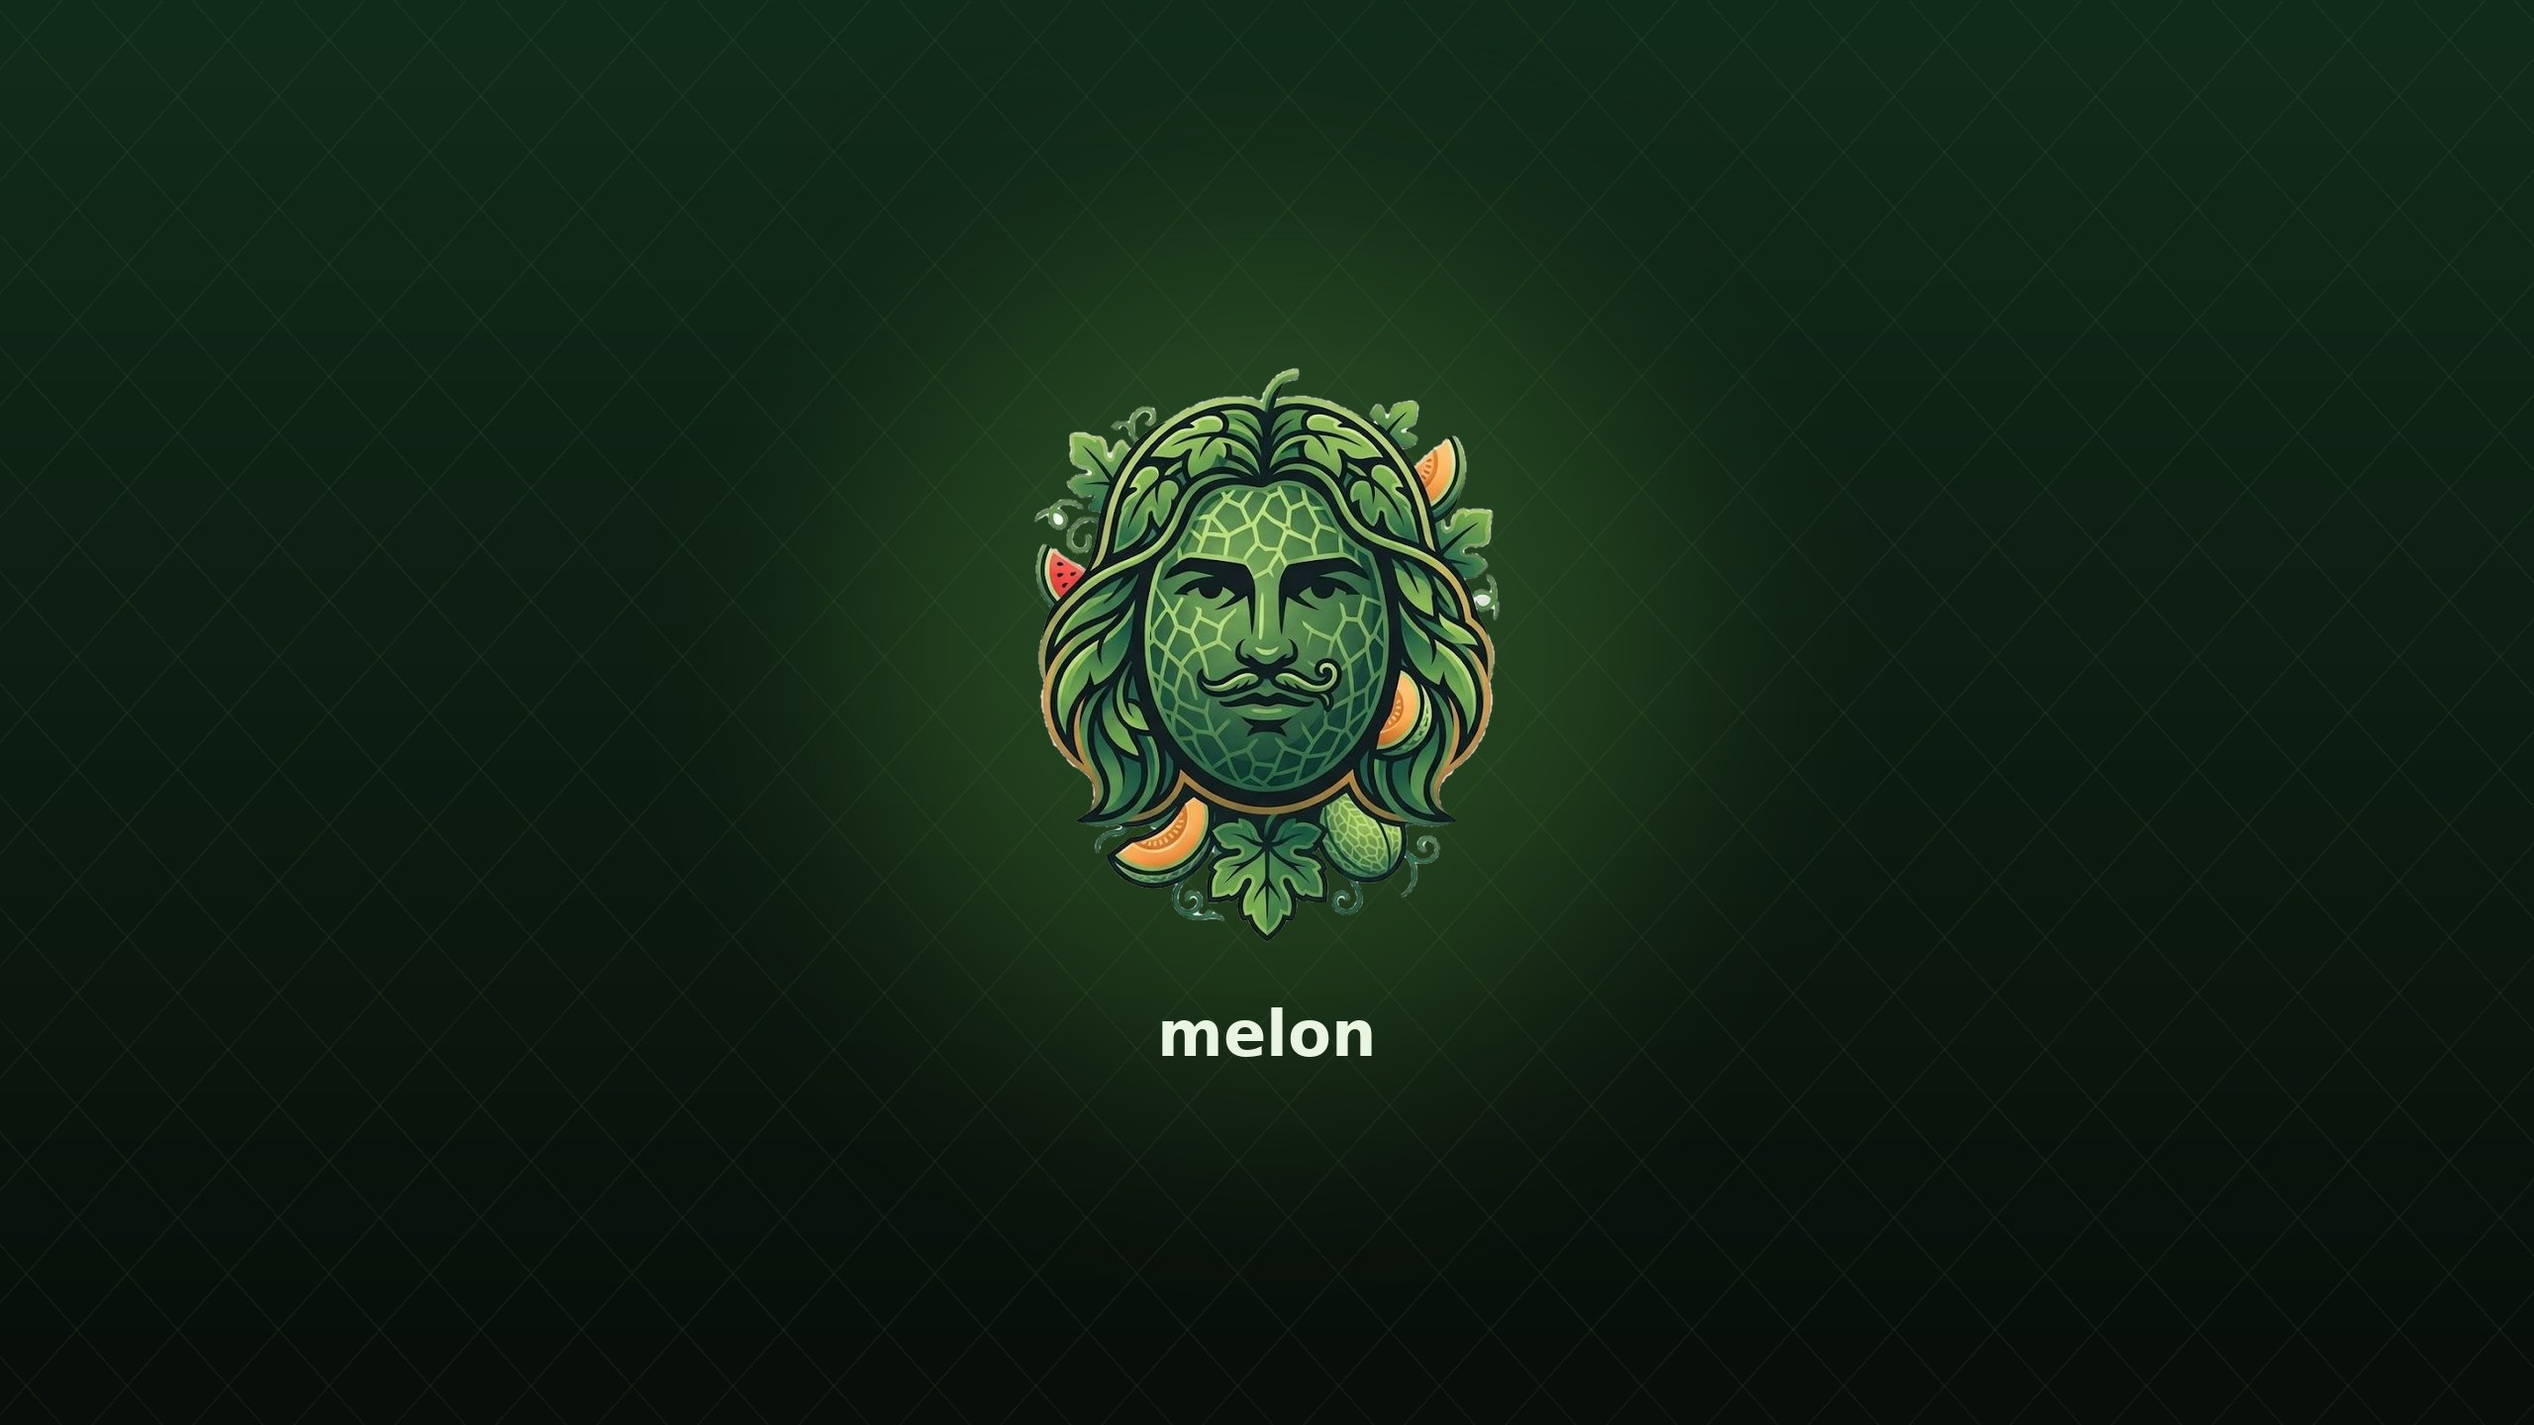
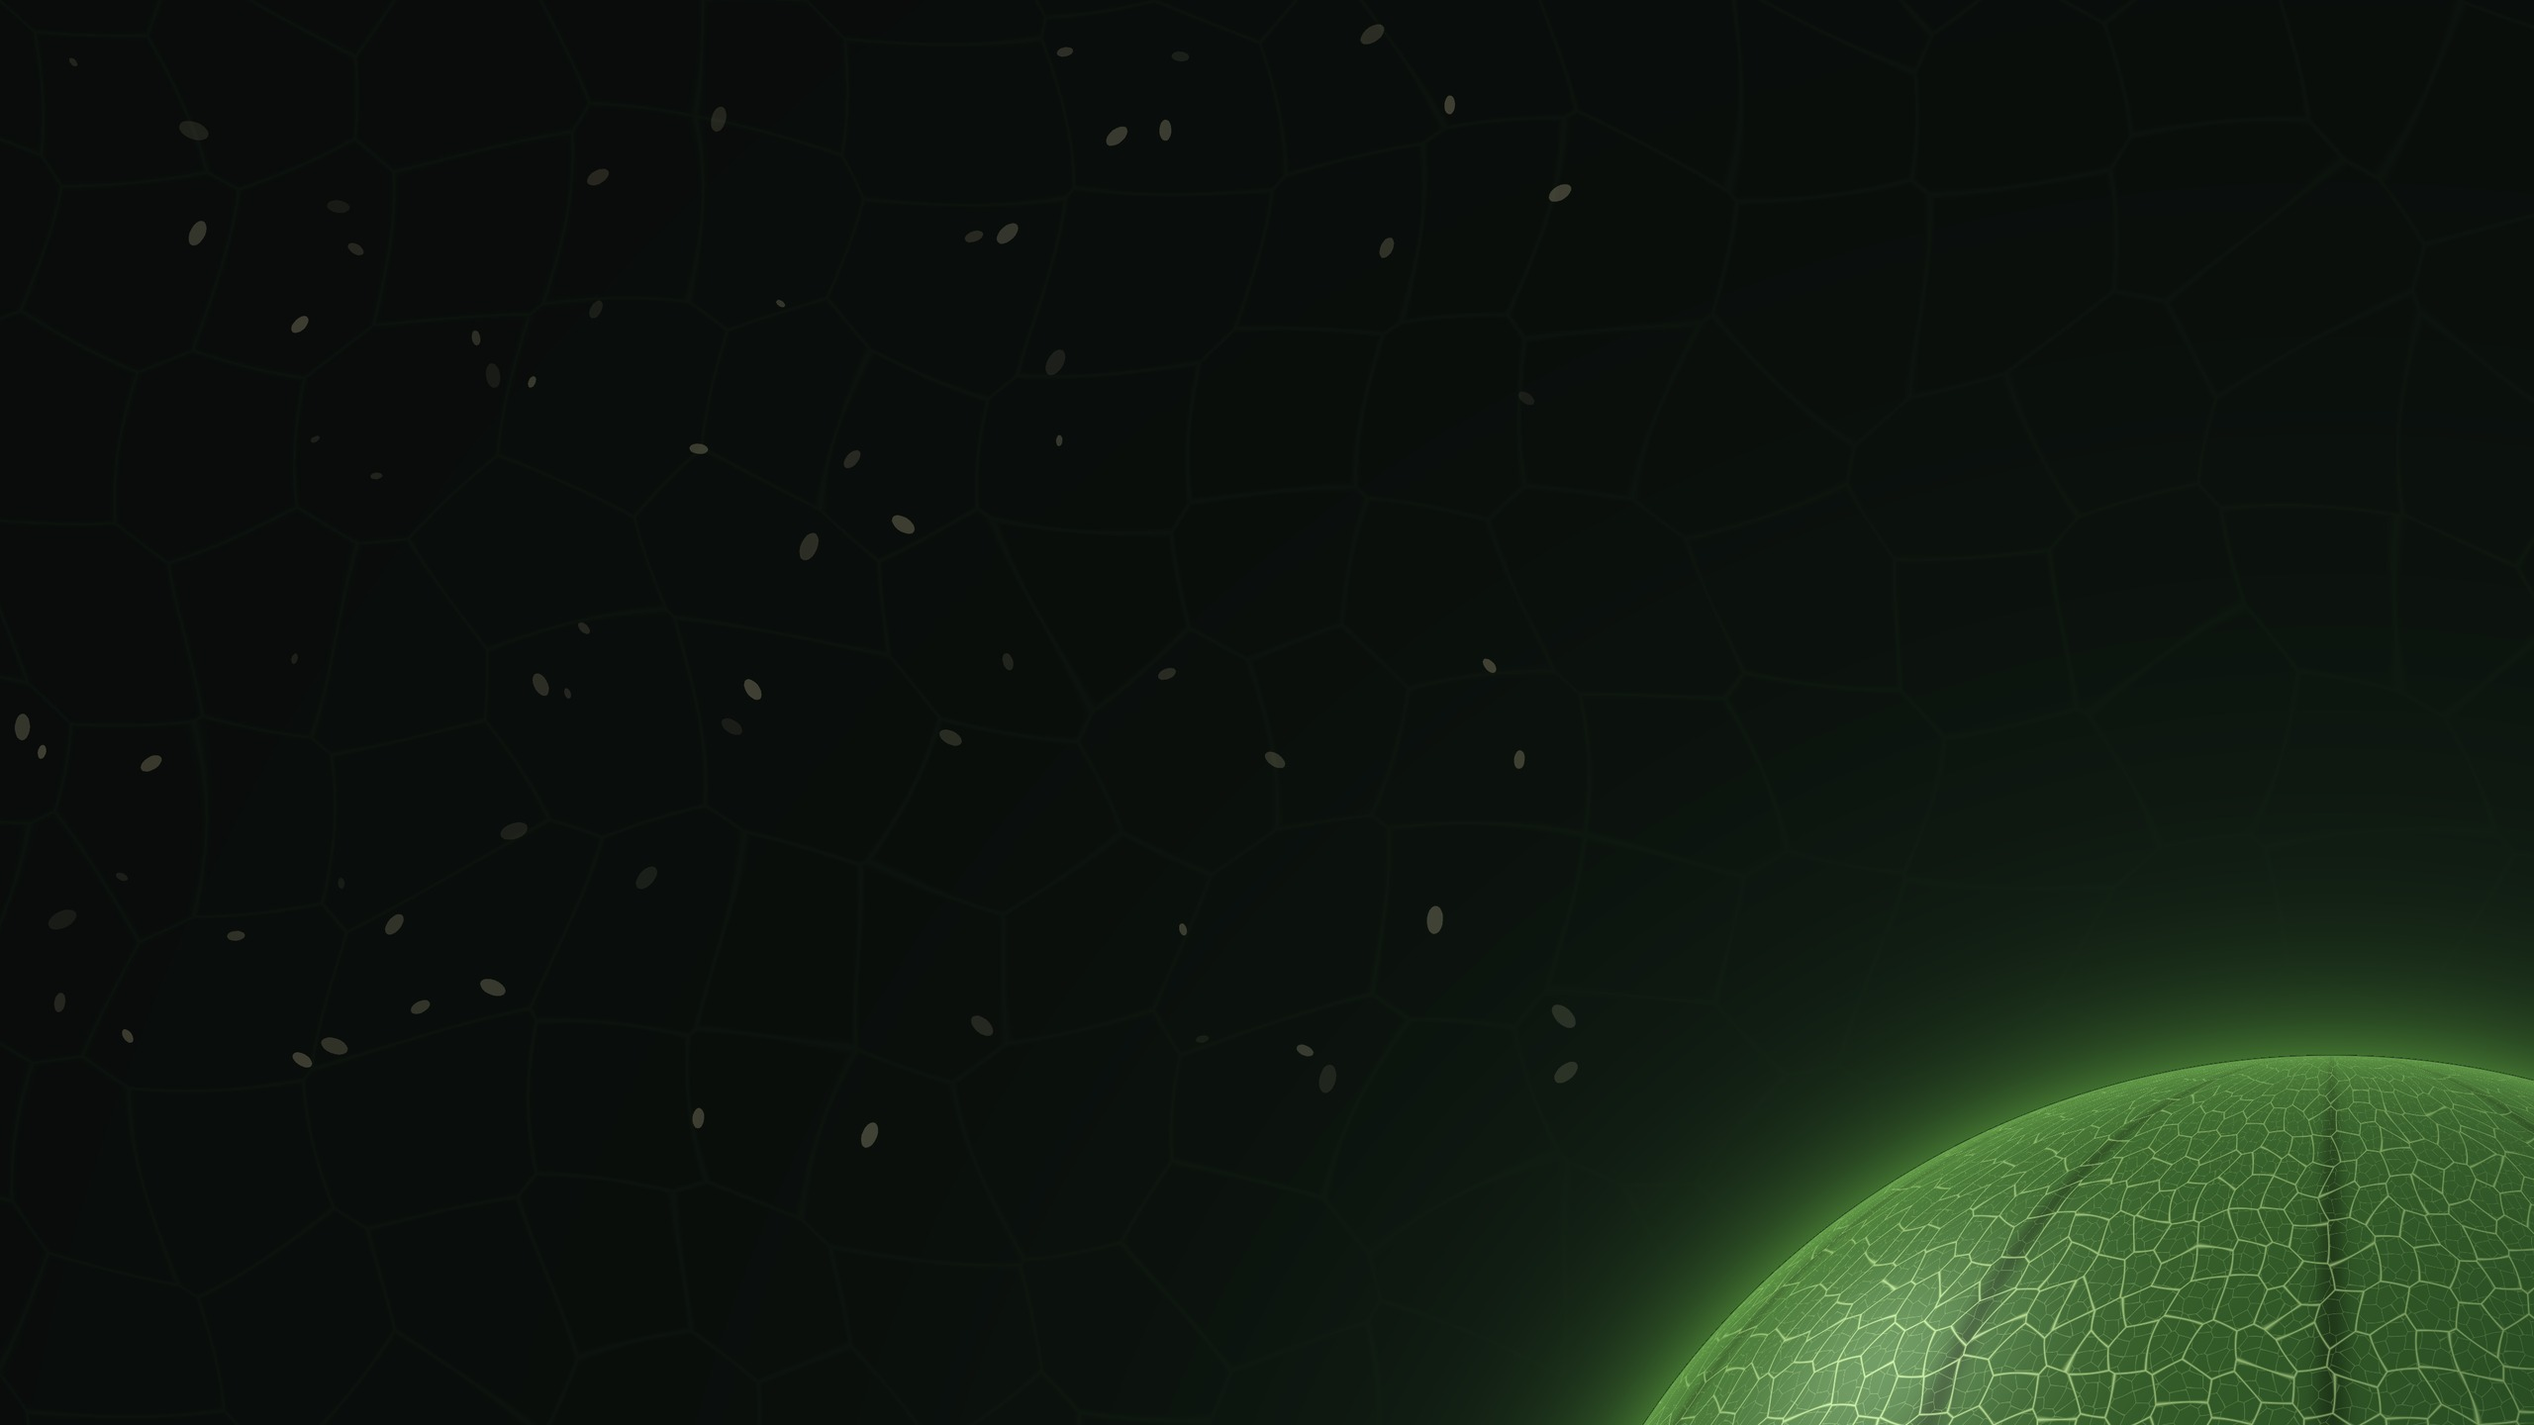
Wi-Fi on real hardware, polkitd restart loop, new wallpaper and loading screen
- eudev (r1): the udevd service replays net/ieee80211/rfkill/bluetooth "add" events once it
  runs. Stage 1's udevd is stopped before the service starts, and a Wi-Fi card's interface
  only appears after its firmware loads: on the ProBook 445 G8 the MT7921's wlan0 arrived in
  that gap, udev never processed it (it kept the kernel name) and NetworkManager left it
  "unmanaged", so Plasma showed no Wi-Fi. Driver and firmware were fine.
- polkit (r1): only runit starts polkitd (D-Bus activation runs /bin/false) and a check
  script says when it owns its bus name. On installed systems power-profiles-daemon asked for
  polkit first, D-Bus started a copy, and the supervised polkitd exited and restarted every
  second. power-profiles-daemon now waits for polkitd; elogind (r4) and polkitd no longer
  print their dbus check to the console.
- melon-desktop (r7): the default wallpaper is the melon planet from the GRUB background,
  without the old logo (the login and lock screens use it too), and a new loading screen:
  the same planet easing into place with a thin progress bar and no logo.
- qemu-test.py: the Wi-Fi test creates its radios while udevd is stopped (they come up
  unmanaged, like the real card) and needs the replay to connect; both desktop tests fail on
  services restarting in a loop; the installed test screenshots the loading screen.
- AGENTS.md: rules 34 (polkitd) and 44 (lost device events).

diff --git a/recipes/melon-desktop/files/usr/share/plasma/look-and-feel/org.melon.desktop/contents/splash/Splash.qml b/recipes/melon-desktop/files/usr/share/plasma/look-and-feel/org.melon.desktop/contents/splash/Splash.qml
@@ -1,45 +1,54 @@
 import QtQuick
 
+// melon's loading screen: the planet from the default wallpaper eases up into place while Plasma starts,
+// so the desktop takes over from the same picture; a thin progress bar follows KSplash's stages (1-6)
 Rectangle {
     id: root
-    color: "#101512"
+    color: "#0a0e0c"
     property int stage
 
-    onStageChanged: {
-        if (stage == 2) { introAnimation.running = true }
-        else if (stage == 5) { introAnimation.target = busyIndicator; introAnimation.from = 1; introAnimation.to = 0; introAnimation.running = true }
+    Image {
+        id: planet
+        anchors.fill: parent
+        source: "images/splash.jpg"
+        fillMode: Image.PreserveAspectCrop
+        opacity: 0
+        scale: 1.08
+        transformOrigin: Item.BottomRight
+        Component.onCompleted: rise.start()
+        ParallelAnimation {
+            id: rise
+            OpacityAnimator { target: planet; from: 0; to: 1; duration: 900; easing.type: Easing.OutQuad }
+            ScaleAnimator { target: planet; from: 1.08; to: 1.0; duration: 3200; easing.type: Easing.OutCubic }
+        }
     }
 
-    Item {
-        id: content
-        anchors.fill: parent
+    Column {
+        anchors.horizontalCenter: parent.horizontalCenter
+        anchors.bottom: parent.bottom
+        anchors.bottomMargin: parent.height * 0.1
+        spacing: 16
         opacity: 0
-        Image {
-            id: logo
-            source: "images/logo.png"
-            anchors.centerIn: parent
-            anchors.verticalCenterOffset: -height * 0.1
-            sourceSize.width: 220; sourceSize.height: 220
-        }
+        OpacityAnimator on opacity { from: 0; to: 1; duration: 1200; easing.type: Easing.InOutQuad }
+
         Text {
-            anchors.top: logo.bottom; anchors.topMargin: 24
+            readonly property int px: Math.round(root.height * 0.022)
             anchors.horizontalCenter: parent.horizontalCenter
-            text: "melon"; color: "#e9f5e1"; font.pointSize: 22; font.bold: true
+            text: "melon"
+            color: "#d6ecc8"
+            opacity: 0.85
+            font.pixelSize: px
+            font.letterSpacing: px * 0.45
+            font.weight: Font.Light
         }
         Rectangle {
-            id: busyIndicator
-            anchors.bottom: parent.bottom; anchors.bottomMargin: parent.height / 8
-            anchors.horizontalCenter: parent.horizontalCenter
-            width: 180; height: 4; radius: 2; color: "#1e2a22"
+            width: Math.round(root.width * 0.14); height: 3; radius: 1.5
+            color: "#33ffffff"
             Rectangle {
-                width: parent.width * Math.min(1, root.stage / 6); height: parent.height; radius: 2
-                color: "#f0a35e"
-                Behavior on width { NumberAnimation { duration: 300 } }
+                width: parent.width * Math.min(1, root.stage / 6); height: parent.height; radius: 1.5
+                color: "#8fd46a"
+                Behavior on width { NumberAnimation { duration: 450; easing.type: Easing.OutCubic } }
             }
         }
-    }
-    OpacityAnimator {
-        id: introAnimation
-        running: false; target: content; from: 0; to: 1; duration: 600; easing.type: Easing.InOutQuad
     }
 }

diff --git a/scripts/qemu-test.py b/scripts/qemu-test.py
@@ -12,6 +12,7 @@
   --vmware VMware-style virtual hardware: PVSCSI disk, VMXNET3 network, VMware SVGA
 """
 import sys, time, pexpect, os
+import re as _re
 M = os.path.dirname(os.path.dirname(os.path.abspath(__file__)))
 
 mode = sys.argv[1]
@@ -102,6 +103,9 @@ if mode == 'desktop':
             if 'SVC-READY' in out: break
             time.sleep(2)
         up = 'SVC-READY' in out; ok &= up; step(f'service {svc}: ' + ('ready' if up else 'NOT READY'))
+    flapping = sh('sleep 5; doas sv status /var/service/* 2>&1 | grep "want up" | cut -d: -f2 | xargs echo FLAP=')
+    flap = _re.search(r'FLAP=([^\r\n]*)', flapping); flap = flap.group(1).strip() if flap else '?'
+    ok &= flap == ''; step('services: ' + ('none restarting in a loop' if flap == '' else f'RESTARTING: {flap}'))
     found = False
     for _ in range(40):                            # KWin and plasmashell after SDDM's autologin
         out = sh('ps -o comm | grep -qx kwin_wayland && ps -o comm | grep -qx plasmashell && echo PLASMA-UP || echo waiting')
@@ -153,14 +157,22 @@ if mode == 'desktop':
     # virtual radios: wlan1 is a WPA2 access point run by a separate wpa_supplicant, NetworkManager joins it with wlan0
     ap = ("printf '%s\\n' 'network={' 'ssid=\"melontest\"' 'mode=2' 'frequency=2437' 'key_mgmt=WPA-PSK' 'proto=RSN' "
           "'pairwise=CCMP' 'psk=\"melonwifi\"' '}' > /tmp/ap.conf")
-    out = sh('modprobe mac80211_hwsim radios=2 && sleep 3 && nmcli -c no device set wlan1 managed no && ' + ap + ' && '
+    # The radios appear while udevd is stopped, like a real card whose interface registers after its firmware loads,
+    # in the gap between stage 1's udevd and the udevd service: nothing processes them and NetworkManager leaves them
+    # unmanaged. Starting udevd must replay those events (recipes/eudev/udevd.run).
+    out = sh('sv down /var/service/udevd; modprobe mac80211_hwsim radios=2; sleep 3; '
+             'nmcli -c no -t -f DEVICE,STATE device | grep "^wlan0:" | sed "s/^/GAP=/"; sv up /var/service/udevd', timeout=60)
+    gap = _re.search(r'GAP=wlan0:(\S+)', out); gap = gap.group(1) if gap else '?'
+    out = sh('for i in $(seq 20); do nmcli -c no -t -f DEVICE,STATE device | grep -q "^wlan1:unmanaged" || break; sleep 1; done; '
+             'nmcli -c no device set wlan1 managed no && ' + ap + ' && '
              'wpa_supplicant -B -i wlan1 -c /tmp/ap.conf >/tmp/ap.log 2>&1 && sleep 3 && '
              'nmcli -c no connection add type wifi ifname wlan0 con-name melontest ssid melontest wifi-sec.key-mgmt wpa-psk '
              'wifi-sec.psk melonwifi ipv4.method disabled ipv6.method link-local >/dev/null && '
              'nmcli -c no --wait 60 connection up melontest >/dev/null 2>&1; '
              'nmcli -c no -t -f GENERAL.STATE device show wlan0 | sed "s/^GENERAL.STATE:/WIFI=/"', timeout=180)
     wifi = 'WIFI=100' in out; ok &= wifi
-    step('Wi-Fi: ' + ('NetworkManager joined a WPA2 network on a virtual radio' if wifi else 'FAILED'))
+    step(f'Wi-Fi: radios found while udevd was down were {gap}; ' +
+         ('after the replay NetworkManager joined a WPA2 network on one' if wifi else 'FAILED'))
     if not wifi: print(out[-1500:]); print(sh('cat /tmp/ap.log; nmcli -c no device; tail -20 /var/log/NetworkManager/current'))
     m = socket.socket(socket.AF_UNIX); m.connect('/tmp/melon-qmon.sock'); time.sleep(0.5)
     m.sendall(f'screendump {M}/logs/qemu-desktop.ppm\n'.encode()); time.sleep(3); m.close()
@@ -214,6 +226,7 @@ if mode == 'desktop-install':
     for ch in 'melonuser':
         mon(f'sendkey {ch}'); time.sleep(0.15)
     mon('sendkey ret'); step('typed the password into the greeter')
+    time.sleep(3); mon(f'screendump {M}/logs/qemu-desktop-splash.ppm')   # Plasma's loading screen
     shell = "ps -o user,comm | awk '$1==\"jcole\" && $2==\"plasmashell\"' | wc -l"
     for _ in range(60):
         if count(shell): break
@@ -223,13 +236,17 @@ if mode == 'desktop-install':
     up = count(shell) == 1 and sess == 1; ok &= up
     step(f'Plasma for jcole after 20 s: plasmashell={count(shell)} active sessions={sess}')
     mime = count('[ -s /usr/share/mime/mime.cache ] && echo 1 || echo 0') == 1; ok &= mime
+    # a service runit keeps restarting shows as "down: 1s, normally up, want up" (polkitd did, raced by D-Bus activation)
+    flapping = sh('sv status /var/service/* 2>&1 | grep "want up" | cut -d: -f2 | xargs echo FLAP=')
+    flap = _re.search(r'FLAP=([^\r\n]*)', flapping); flap = flap.group(1).strip() if flap else '?'
+    ok &= flap == ''; step('services: ' + ('none restarting in a loop' if flap == '' else f'RESTARTING: {flap}'))
     step('MIME cache: ' + ('present' if mime else 'MISSING'))
     # the desktop profile's services, and the user may manage printers
     svcs = count('n=0; for s in avahi-daemon cupsd; do sv check /var/service/$s >/dev/null 2>&1 && n=$((n+1)); done; echo $n')
     lpadm = count('id -Gn jcole | tr " " "\\n" | grep -cx lpadmin')
     ok &= svcs == 2 and lpadm == 1; step(f'printing on the installed system: {svcs}/2 services up, jcole in lpadmin: {lpadm == 1}')
     mon(f'screendump {M}/logs/qemu-desktop-installed.ppm'); time.sleep(3)
-    step('screenshots: logs/qemu-desktop-greeter.ppm, logs/qemu-desktop-installed.ppm')
+    step('screenshots: logs/qemu-desktop-greeter.ppm, -splash.ppm, -installed.ppm')
     p.sendline('poweroff'); p.expect(pexpect.EOF, timeout=300)
     step('installed desktop test: ' + ('OK' if ok else 'FAILED'))
     sys.exit(0 if ok else 1)

diff --git a/AGENTS.md b/AGENTS.md
@@ -184,8 +184,10 @@ Rebuilding the kernel takes about an hour on 2 cores.
     `depends=` or list them in `scripts/desktop-packages.txt`.
 34. **runit readiness:** `sv` defaults to `/service`, so `SVDIR=/var/service` is set in stage 2 and `/etc/profile`.
     `sv check <svc>` only means "the process exists" unless the service has a `./check` script; services others
-    wait for ship one (dbus: bus socket exists; elogind: seat0 is set up). Only runit starts elogind (its D-Bus
-    activation file runs /bin/false).
+    wait for ship one (dbus: bus socket exists; elogind: seat0 is set up; polkitd: owns its bus name). Only runit
+    starts elogind and polkitd (their D-Bus activation files run /bin/false): otherwise the first daemon to ask for
+    them gets a D-Bus-activated copy, and the supervised one exits and restarts every second because the name is
+    taken (polkitd did that on installed systems). Services that need them at startup wait with `sv check`.
 35. **Image assembly installs BusyBox, then melon-base, then everything else** (`mkiso.sh`): install scripts need
     /bin/sh and adduser, and the users they add (messagebus, polkitd, sddm) must not be overwritten by melon-base's
     `/etc/passwd` arriving later.
@@ -217,6 +219,11 @@ Rebuilding the kernel takes about an hour on 2 cores.
     Kconfig files and add them. The built config ships as `/boot/config-melon`; check it, not the fragment. For a
     real machine, `sudo melon-hwreport` lists every PCI/USB/ACPI/I2C device with the driver it got, plus the kernel's
     firmware messages; map IDs to modules with `modprobe -R <modalias>` against the built kernel.
+44. **Device events between stage 1's udevd and the udevd service are lost.** Stage 1 runs a udevd for the boot
+    coldplug and stops it; the runit service starts a new one a moment later. A Wi-Fi card's interface appears only
+    after its firmware loads (MT7921, iwlwifi, ath11k), often in that gap: udev never processed it, so it kept the
+    kernel name `wlan0` and NetworkManager left it "unmanaged" (the ProBook's MT7921). The service replays the "add"
+    events for net, ieee80211, rfkill and bluetooth devices once it runs (`recipes/eudev/udevd.run`).
 
 To resume a failed long build without unpacking again (for example the kernel):
 `MELON_KEEP_SRC=1 scripts/melon-build linux-melon`.
